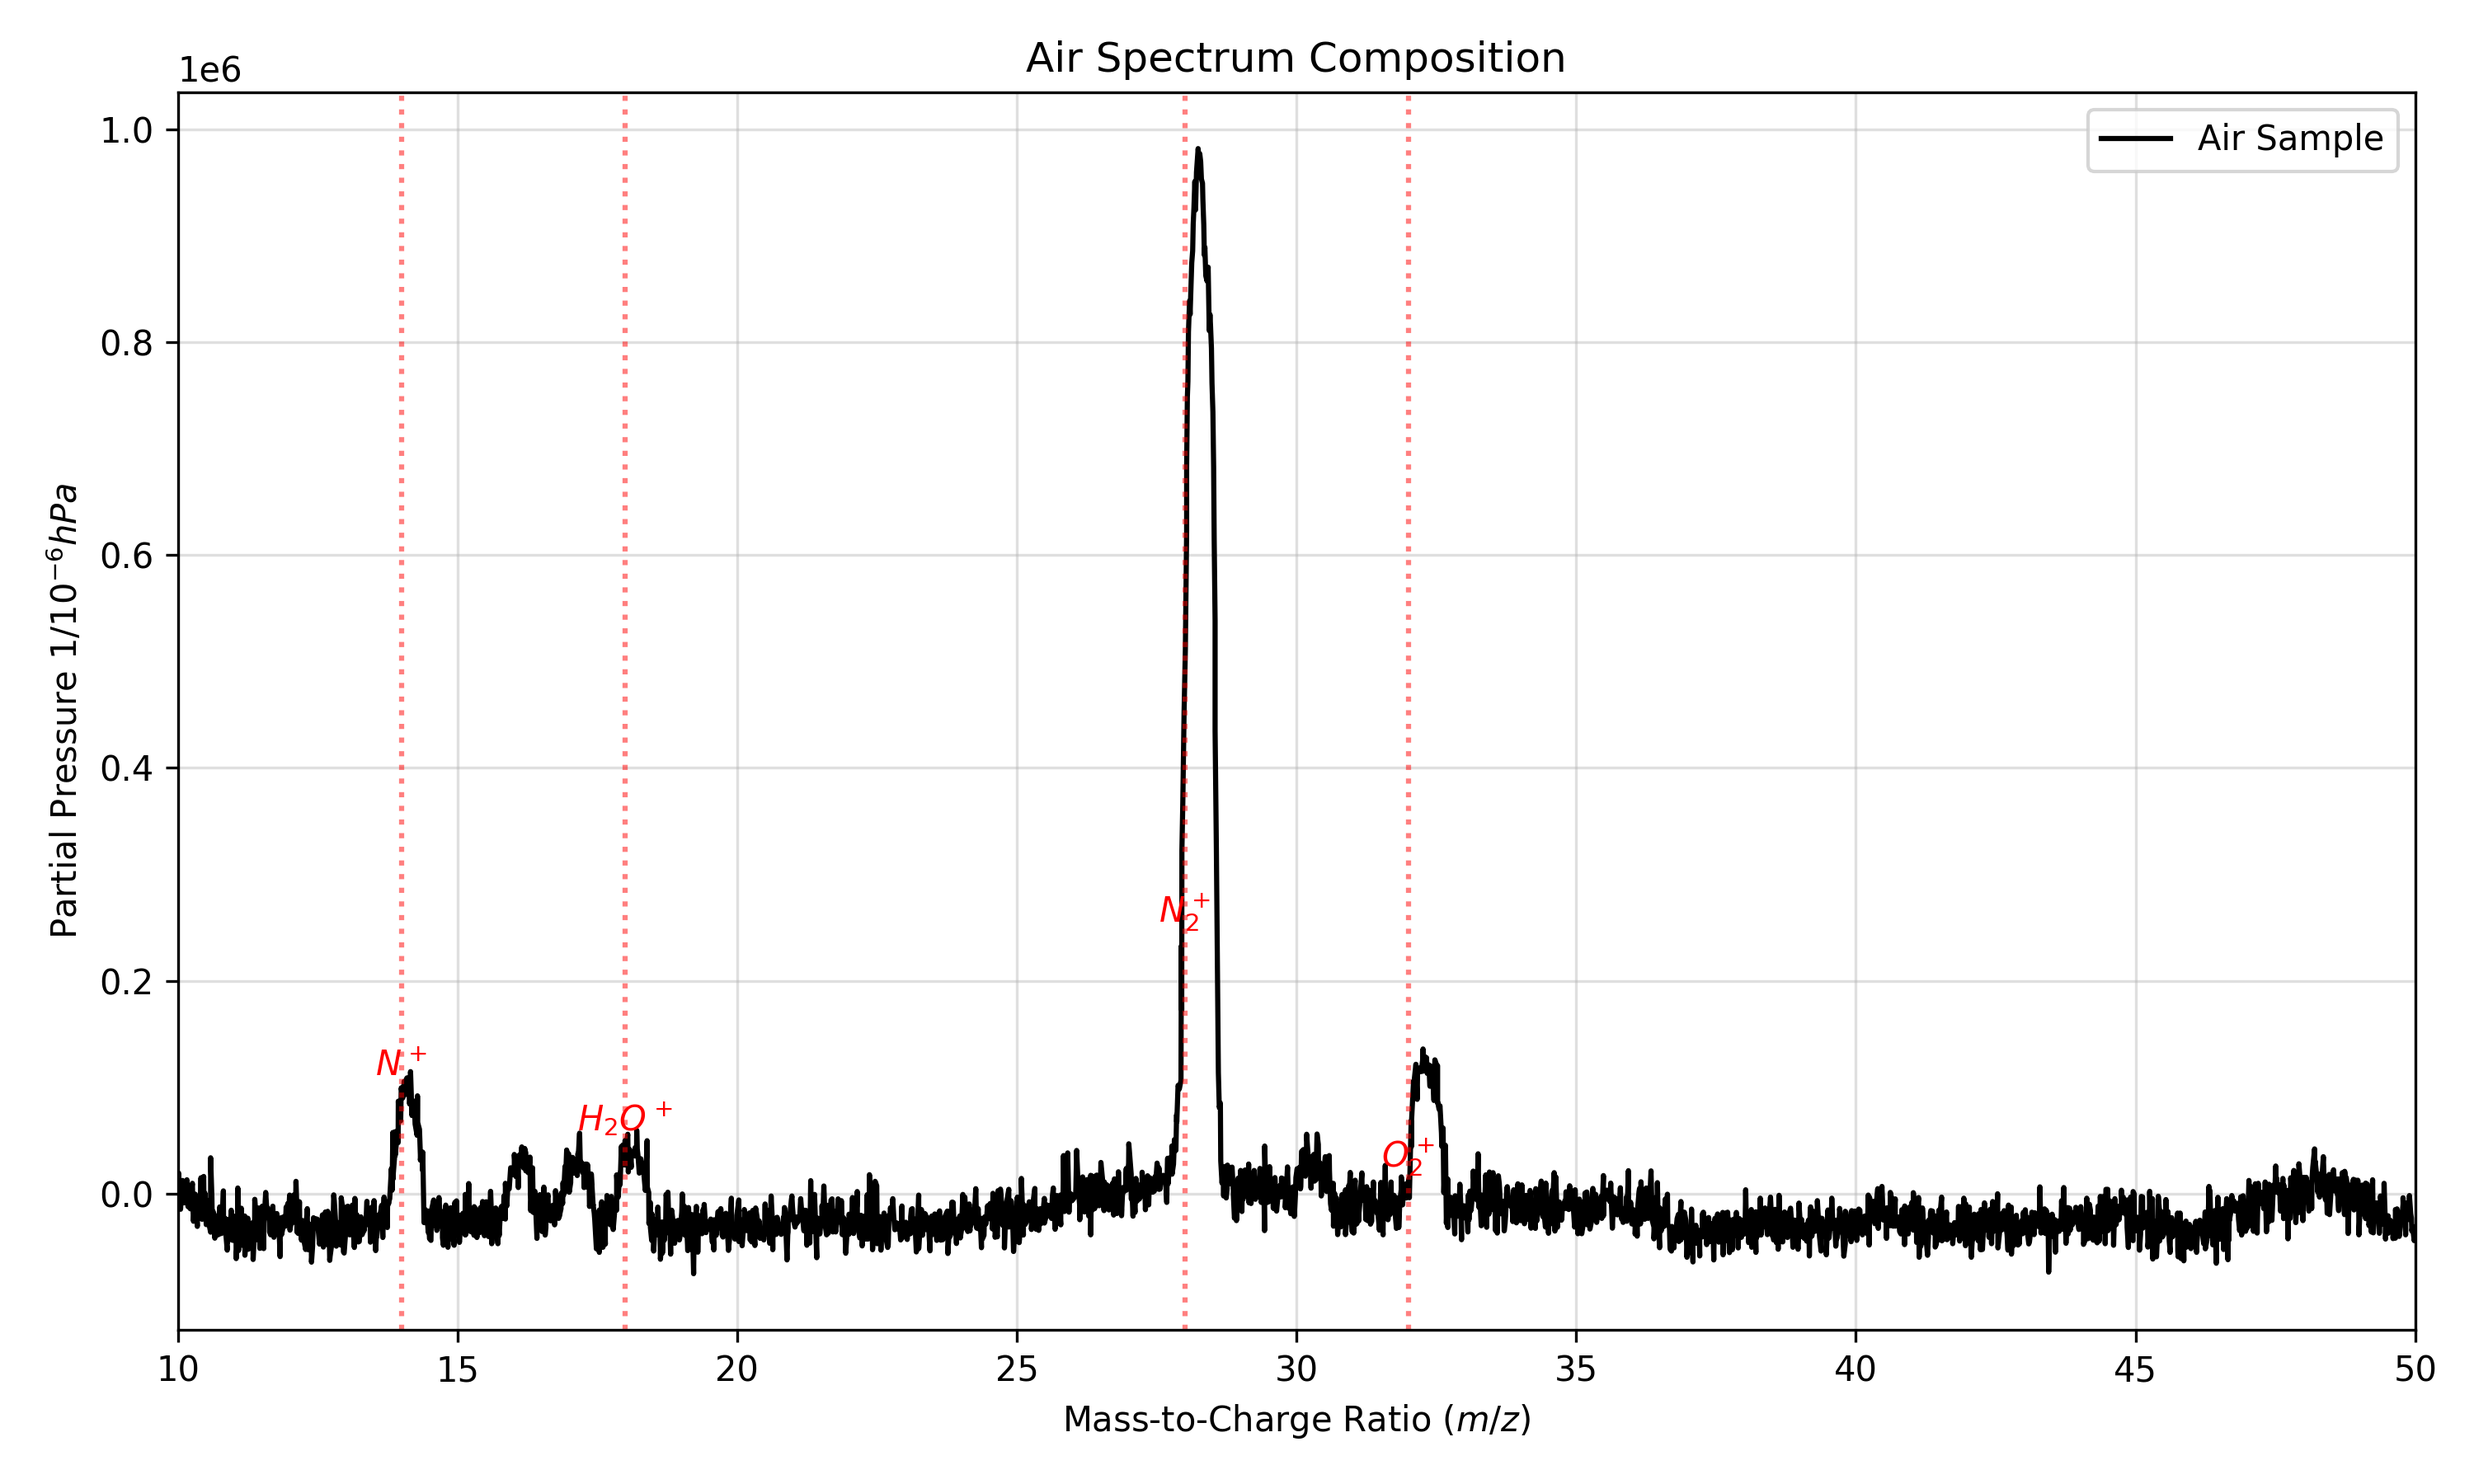
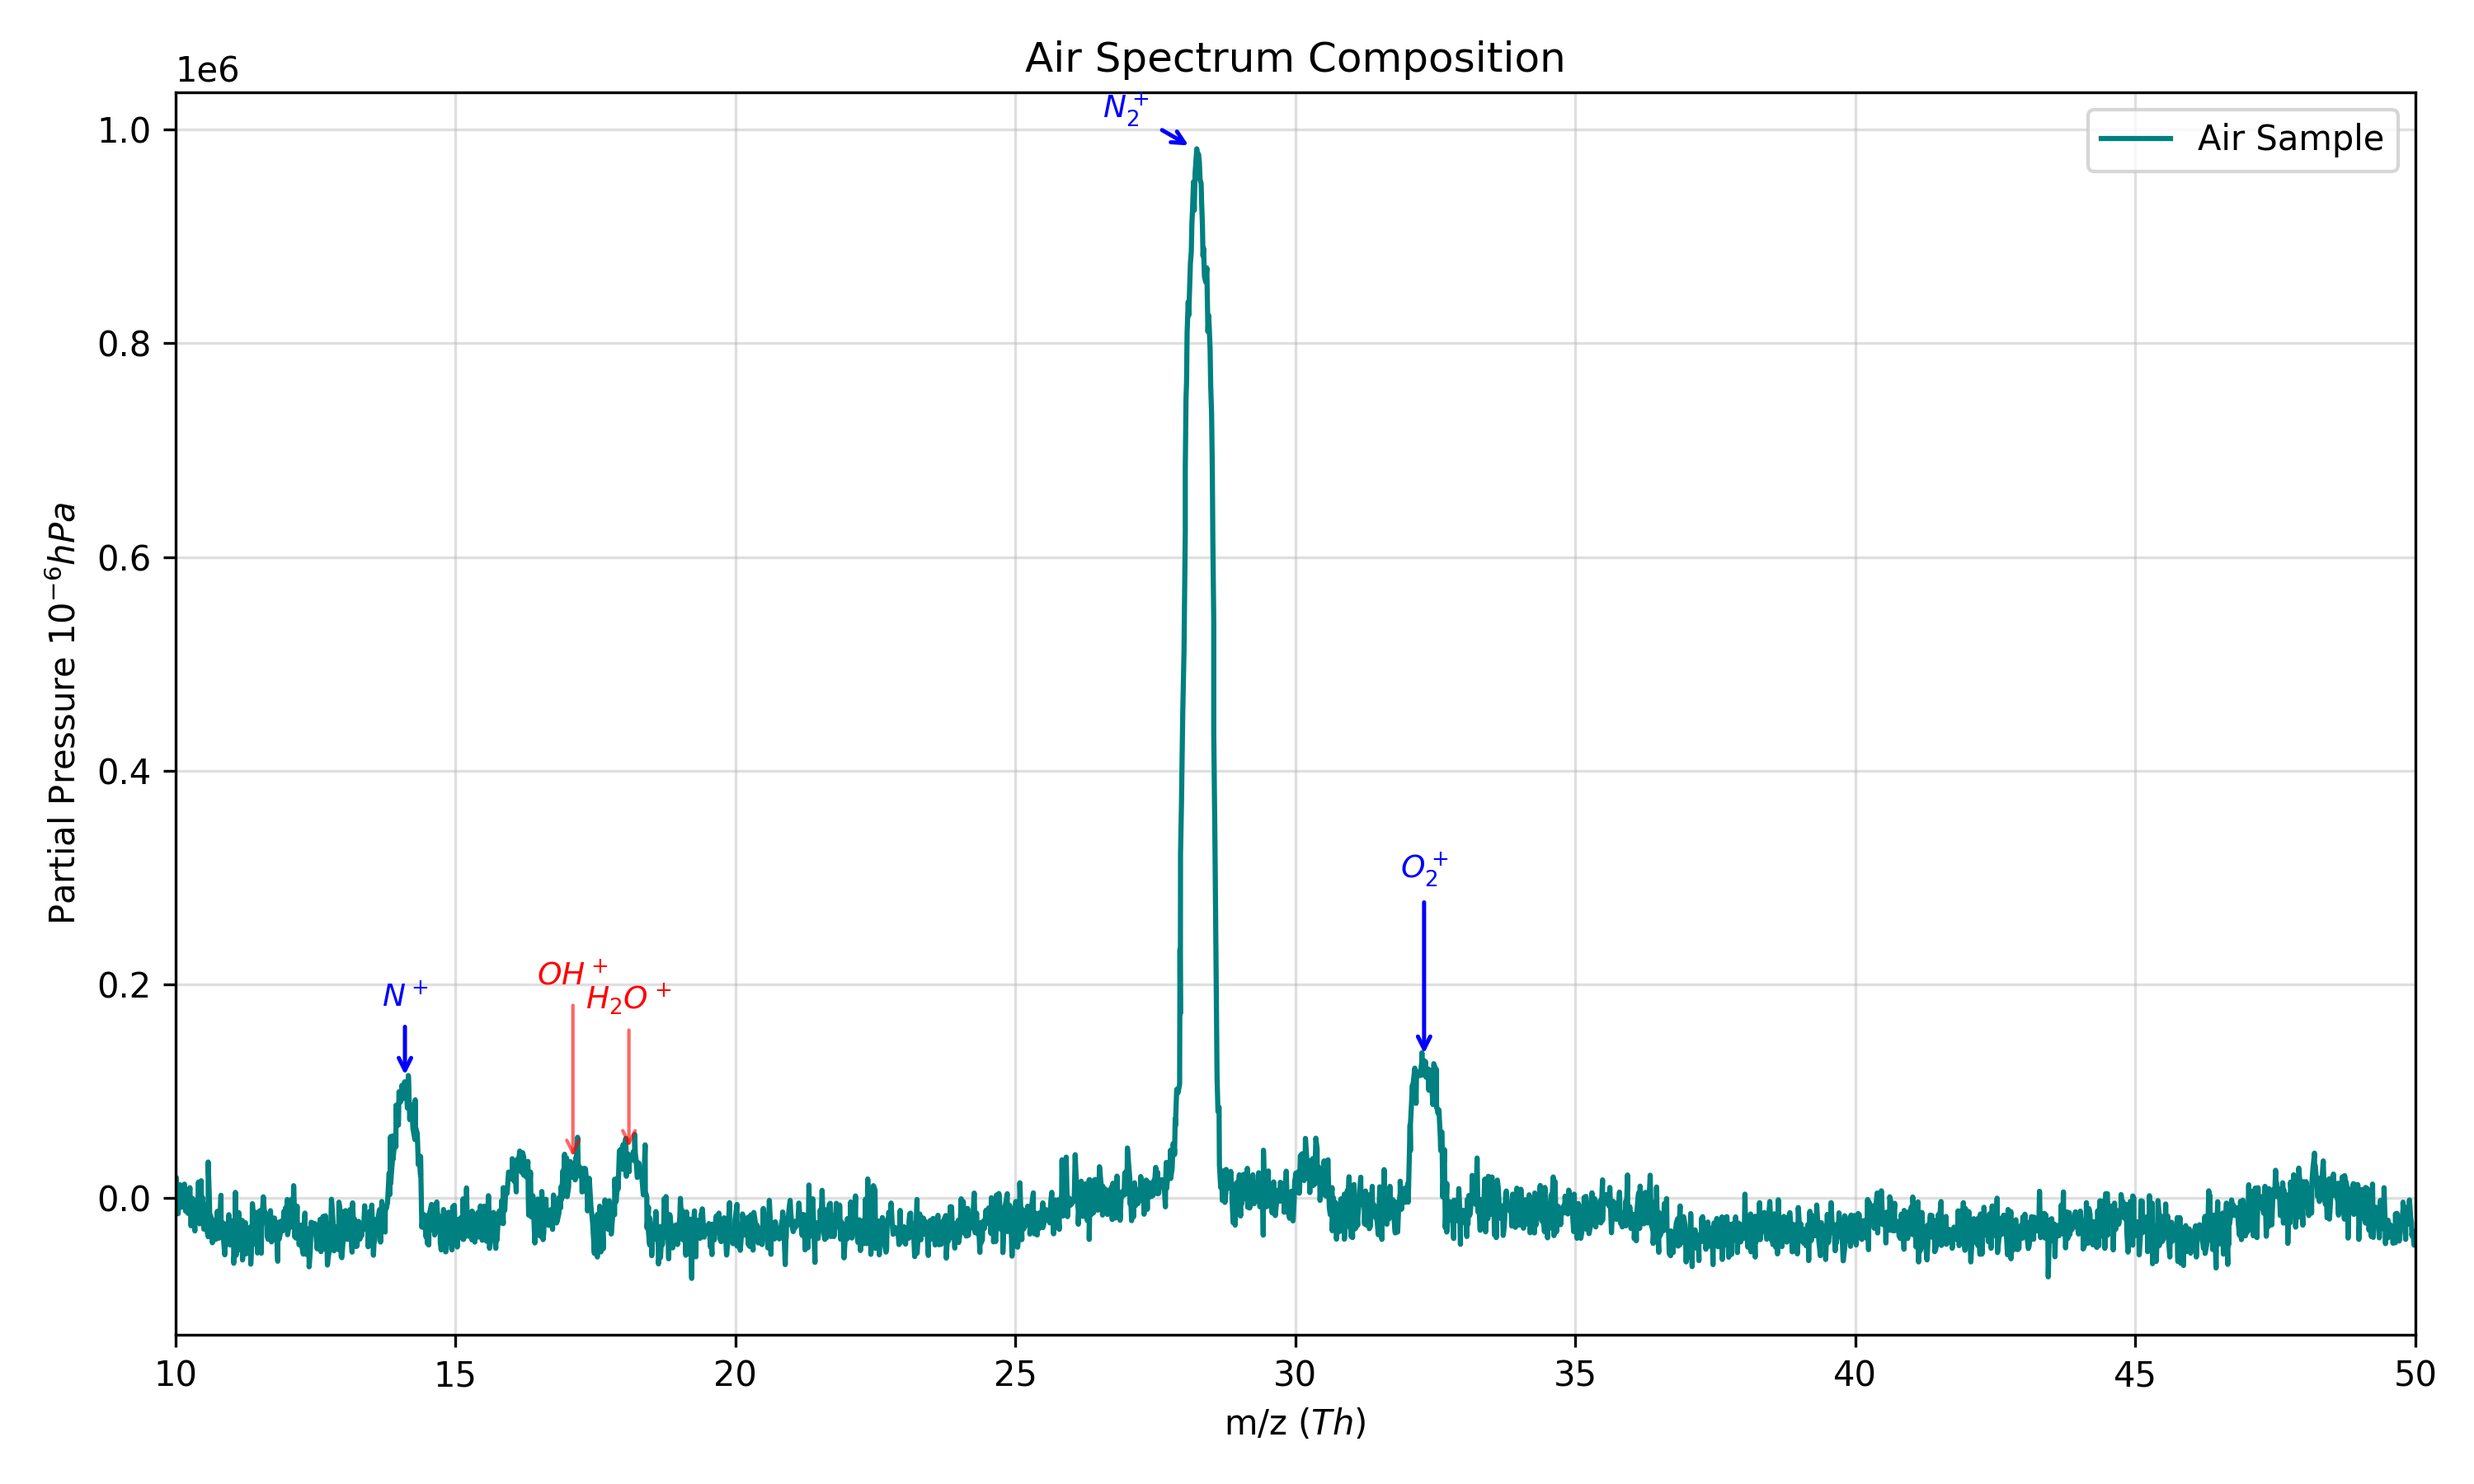
Task 4 added

diff --git a/Evaluation/Evaluation_QMS.tex b/Evaluation/Evaluation_QMS.tex
@@ -542,7 +542,7 @@ After completing all measurements, emission was switched to \texttt{OFF} first, 
 % --- Results ---
 \section{Results}
 \subsection{Argon Spectrum}
-A measurement of the background spectrum was recorded to implement a background subtraction to the recorded spectrum of the ionized Argon. First, both spectrum were normalized by pressure and then the background spectrum was subtracted from the Argon spectrum (Figure~\ref{fig:argon}). The effect of the substraction is substantially noticeable in the $H_2O^+$ peak ($18m/z$). We can appreciate potential impurities around the $28m/z$ range, attributed to $N_2^+$. The comparison to the reference spectrum confirms the expected peaks found in our data (Figure~\ref{fig:argon-reference}).
+A measurement of the background spectrum was recorded to implement a background subtraction to the recorded spectrum of the ionized Argon. First, both spectrum were normalized by pressure and then the background spectrum was subtracted from the Argon spectrum (Figure~\ref{fig:argon}). The effect of the substraction is substantially noticeable in the $H_2O^+$ peak ($18Th$). We can appreciate potential impurities around the $28Th$ range, attributed to $N_2^+$. The comparison to the reference spectrum confirms the expected peaks found in our data (Figure~\ref{fig:argon-reference}).
 
 \begin{figure}[htbp]
   \centering
@@ -552,12 +552,12 @@ A measurement of the background spectrum was recorded to implement a background 
 
 \begin{figure}[htbp]
   \centering
-  \includegraphics[width=0.4\linewidth]{../resources/figures/QMS_Beispiel-Spektren/QMS_Beispiel-Spektren-2.png}
+  \includegraphics[width=0.6\linewidth]{../resources/figures/QMS_Beispiel-Spektren/QMS_Beispiel-Spektren-2.png}
   \caption{Reference spectrum for Argon.}\label{fig:argon-reference}
 \end{figure}
 
 \subsection{Acetone Spectrum}
-Figure~\ref{fig:acetone} contains the acetone spectrum in the range of 10 to 60 $m/z$, with normalized pressure. The dominant peaks (blue), fragment peaks (gray), and impurities (red) were labelled in the plot. The comparison to the reference spectrum confirms the expected peaks found in our data (Figure~\ref{fig:argon-reference}).
+Figure~\ref{fig:acetone} contains the acetone spectrum in the range of 10 to 60$Th$, with normalized pressure. The dominant peaks (blue), fragment peaks (gray), and impurities (red) were labelled in the plot. The comparison to the reference spectrum confirms the expected peaks found in our data (Figure~\ref{fig:acetone-reference}).
 
 \begin{figure}[htbp]
   \centering
@@ -567,12 +567,12 @@ Figure~\ref{fig:acetone} contains the acetone spectrum in the range of 10 to 60 
 
 \begin{figure}[htbp]
   \centering
-  \includegraphics[width=0.6\linewidth]{../resources/figures/QMS_Beispiel-Spektren/QMS_Beispiel-Spektren-3.png}
+  \includegraphics[width=0.8\linewidth]{../resources/figures/QMS_Beispiel-Spektren/QMS_Beispiel-Spektren-3.png}
   \caption{Reference spectrum for Acetone.}\label{fig:acetone-reference}
 \end{figure}
 
 \subsection{Ethanol Spectrum}
-Figure~\ref{fig:ethanol} contains the ethanol spectrum in the range of 10 to 50 $m/z$, with normalized pressure. The dominant peaks (blue), fragment peaks (gray), and impurities (red) were labelled in the plot. The comparison to the reference spectrum again confirms the expected peaks found in our data (Figure~\ref{fig:argon-reference}).
+Figure~\ref{fig:ethanol} contains the ethanol spectrum in the range of 10 to 50Th, with normalized pressure. The dominant peaks (blue), fragment peaks (gray), and impurities (red) were labelled in the plot. The comparison to the reference spectrum again confirms the expected peaks found in our data (Figure~\ref{fig:ethanol-reference}).
 
 \begin{figure}[htbp]
   \centering
@@ -582,19 +582,26 @@ Figure~\ref{fig:ethanol} contains the ethanol spectrum in the range of 10 to 50 
 
 \begin{figure}[htbp]
   \centering
-  \includegraphics[width=0.6\linewidth]{../resources/figures/QMS_Beispiel-Spektren/QMS_Beispiel-Spektren-4.png}
+  \includegraphics[width=0.8\linewidth]{../resources/figures/QMS_Beispiel-Spektren/QMS_Beispiel-Spektren-4.png}
   \caption{Reference spectrum for Ethanol.}\label{fig:ethanol-reference}
 \end{figure}
 
 \subsection{Air Spectrum}
+Figure~\ref{fig:air} contains the air spectrum in the range of 10 to 50$Th$, with normalized pressure. The dominant peaks (blue), and impurities (red) were labelled in the plot. Unfortunately the comparison to the reference spectrum again shows that we are missing in our data both the $Ar^+$ peak at $40Th$ and the impurity peak from $CO_2^+$ at $44Th$(Figure~\ref{fig:air-reference}).
 
-\begin{itemize}
-  \item Plot the air spectrum and normalize to pressure
-  \item Assign the main air peaks (N$_2^+$ at 28, O$_2^+$ at 32, Ar$^+$ at 40, CO$_2^+$ at 44, plus fragments)
-  \item Compare to the provided reference spectrum and comment on contamination/background signatures
-\end{itemize}
+\begin{figure}[htbp]
+  \centering
+  \includegraphics[width=0.9\linewidth]{../resources/task_5_4_air.png}
+  \caption{Mass-to-charge spectrum of the recorded measurement for the air composition with normalized pressure.}\label{fig:air}
+\end{figure}
 
-\subsection{Resolution Series in Air (VAR: 6, 5, 4, 3, 2)}
+\begin{figure}[htbp]
+  \centering
+  \includegraphics[width=0.8\linewidth]{../resources/figures/QMS_Beispiel-Spektren/QMS_Beispiel-Spektren-5.png}
+  \caption{Reference spectrum for the air spectrum.}\label{fig:air-reference}
+\end{figure}
+
+\subsection{Resolution Analysis}
 
 \begin{itemize}
   \item Overlay the air spectra for resolution settings VAR = 6 $\rightarrow$ 2 and discuss the qualitative trade-off (peak narrowing vs signal loss)

diff --git a/resources/task_5_4.py b/resources/task_5_4.py
@@ -13,28 +13,62 @@ def run_task_5_4():
     i_norm = i / PRESSURE['air']
 
     plt.figure(figsize=(10, 6))
-    plt.plot(m, i_norm, color='black', label='Air Sample')
+    plt.plot(m, i_norm, color='teal', label='Air Sample')
 
     # [cite_start]Standard Air Peaks
-    peaks = [
-        (28, '$N_2^+$'),
-        (32, '$O_2^+$'),
-        (40, '$Ar^+$'),
-        (44, '$CO_2^+$'),
-        (18, '$H_2O^+$'),
-        (14, '$N^+$')
+    # --- PEAK DATA: (Mass, Label, Is_Impurity) ---
+    peak_data = [
+        (44.5, '$CO_2^+$', True),
+        (40.3, '$Ar^+$', False),
+        (32.3, '$O_2^+$', False),
+        (28.2, '$N_2^+$', False),
+        (18.1, '$H_2O^+$', True),
+        (17.1, '$OH^+$', True),
+        (14.1, '$N^+$', False)
     ]
 
-    for mass, label in peaks:
-        h = get_peak_height_robust(m, i_norm, mass, 1.0)
+    # --- PLOTTING LOOP ---
+    for idx, (mass, txt, is_impurity) in enumerate(peak_data):
+        h = get_peak_height_robust(m, i_norm, mass, 0.6)
+        
         if h > 0:
-            plt.axvline(x=mass, color='red', linestyle=':', alpha=0.5)
-            plt.text(mass, h*1.05, label, ha='center', va='bottom', color='red', fontsize=10)
+            # STYLE LOGIC
+            if is_impurity:
+                color = 'red'
+                alpha = 0.7
+                fontweight = 'normal'
+                offset_y = 40 + (10 * (idx % 2))
+                x=0
+                angle=90
+                arrow_style = dict(arrowstyle='->', color=color, lw=1, alpha=0.6)
+            
+            else:
+                color = 'blue'
+                fontweight = 'normal'
+                offset_y = 20 + (15 * (idx % 3))
+                x=0
+                angle=90
+                arrow_style = dict(arrowstyle='->', color=color, lw=1.2)
+                if mass==28.2: 
+                    offset_y = 6
+                    x=-20 
+                    angle=0
+
+            plt.annotate(
+                txt, 
+                xy=(mass, h), 
+                xytext=(x, offset_y), 
+                textcoords='offset points',
+                arrowprops=arrow_style,
+                ha='center', va='bottom', fontsize=9, 
+                color=color, fontweight=fontweight,
+                rotation=angle if len(txt) > 8 else 0
+            )
 
     plt.xlim(10, 50)
     plt.title('Air Spectrum Composition')
-    plt.xlabel('Mass-to-Charge Ratio ($m/z$)')
-    plt.ylabel('Partial Pressure $1/10^{-6}hPa$')
+    plt.xlabel('m/z ($Th$)')
+    plt.ylabel('Partial Pressure $10^{-6}hPa$')
     plt.legend()
     plt.grid(True, alpha=0.4)
     plt.tight_layout()

diff --git a/resources/task_5_2.py b/resources/task_5_2.py
@@ -70,13 +70,14 @@ def run_task_5_2():
             plt.annotate(
                 txt, 
                 xy=(mass, h), 
+                color='blue',
                 xytext=(-10, 30),              # Position text 30 points above the peak
                 textcoords='offset points',  # Use relative offset instead of absolute scaling
                 arrowprops=dict(
                     arrowstyle='->',         # Slimmer, cleaner arrow head
                     connectionstyle='arc3',  # Straight line
                     color='blue',           # Use 'red' for impurities
-                    lw=1.5                   # Line width
+                    lw=1.2                   # Line width
                 ),
                 ha='center',
                 va='bottom',
@@ -125,8 +126,8 @@ def run_task_5_2():
     plt.xlim(10, 60)
     plt.ylim(0)
     plt.title('Acetone Spectrum')
-    plt.xlabel('Mass-to-Charge Ratio ($m/z$)')
-    plt.ylabel('Partial Pressure $I/10^{-6}hPa$')
+    plt.xlabel('m/z ($Th$)')
+    plt.ylabel('Partial Pressure $10^{-6}hPa$')
     plt.legend()
     plt.grid(True, alpha=0.5)
     plt.tight_layout()

diff --git a/resources/task_5_3.py b/resources/task_5_3.py
@@ -81,15 +81,15 @@ def run_task_5_3():
                     x=-20 
                     angle=0
             
-            elif mass in [46, 31, 45]:
-                # Main Peaks: Black, Bold (Parent & Base)
+            elif mass in [46.7, 31.3, 45.65]:
+                # Main Peaks
                 color = 'blue'
                 alpha = 1.0
                 fontweight = 'bold'
                 offset_y = 25
                 x=0
                 angle=90
-                arrow_style = dict(arrowstyle='->', color=color, lw=2)
+                arrow_style = dict(arrowstyle='->', color=color, lw=1.2)
             
             else:
                 # Minor Fragments: Dark Gray
@@ -115,8 +115,8 @@ def run_task_5_3():
     plt.xlim(10, 50)
     plt.ylim(0)
     plt.title('Ethanol Spectrum')    
-    plt.xlabel('Mass-to-Charge Ratio ($m/z$)')
-    plt.ylabel('Partial Pressure $I/10^{-6}hPa$')
+    plt.xlabel('m/z ($Th$)')
+    plt.ylabel('Partial Pressure $10^{-6}hPa$')
     plt.legend()
     plt.grid(True, alpha=0.4)
     plt.tight_layout()

diff --git a/resources/task_5_1.py b/resources/task_5_1.py
@@ -61,8 +61,8 @@ def run_task_5_1():
     plt.xlim(10, 50)
     plt.ylim(0)
     plt.title('Argon Spectrum')
-    plt.xlabel('Mass-to-Charge Ratio ($m/z$)')
-    plt.ylabel('Partial Pressure $I/10^{-6}hPa$')
+    plt.xlabel('m/z ($Th$)')
+    plt.ylabel('Partial Pressure $10^{-6}hPa$')
     plt.legend()
     plt.grid(True, alpha=0.5)
     plt.tight_layout()
